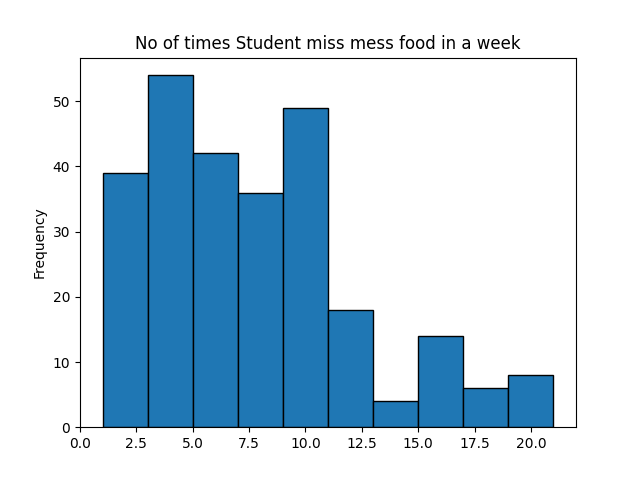
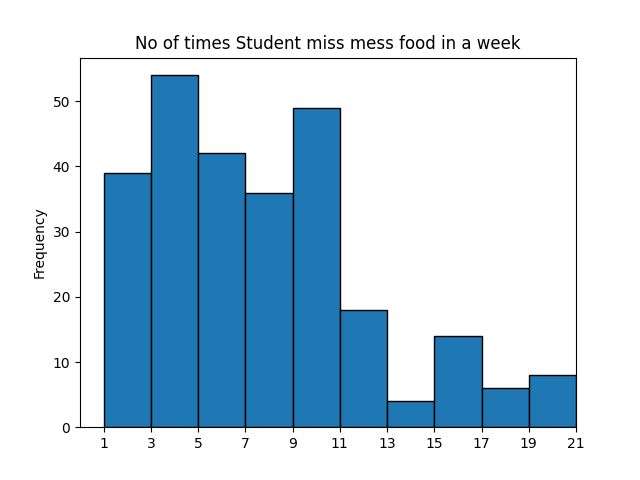
Updated histogram x axis

diff --git a/plots.py b/plots.py
@@ -19,6 +19,8 @@ df = pd.read_csv('Survey on Mess Food Usage by IITH Students.csv')
 count_meal_skip = df[['Roughly what would be the count of no of times you miss mess food in a week? (1-7)','Roughly what would be the count of no of times you miss mess food in a week? (8-14)','Roughly what would be the count of no of times you miss mess food in a week? (15-21)']].copy()
 count_meal_skip = count_meal_skip.stack().reset_index(drop=True)
 count_meal_skip.plot.hist(edgecolor = "black",title='No of times Student miss mess food in a week')
+plt.xlim(0, 21)
+plt.xticks(range(1, 22, 2))
 plt.savefig('histogram_meal_skip.png')
 plt.close()
 # print(count_meal_skip.to_string())
